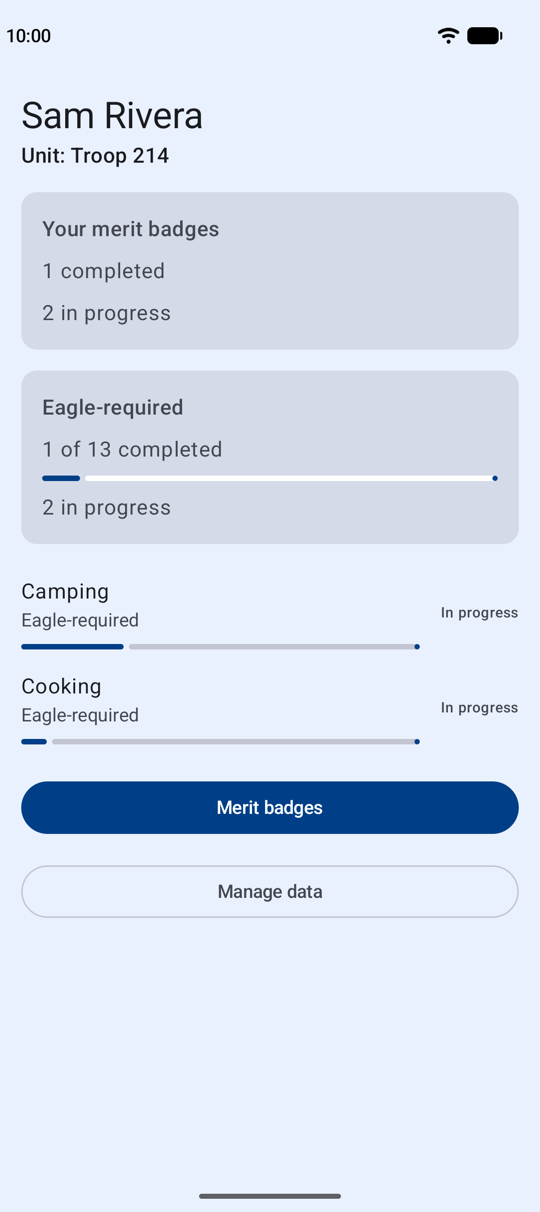
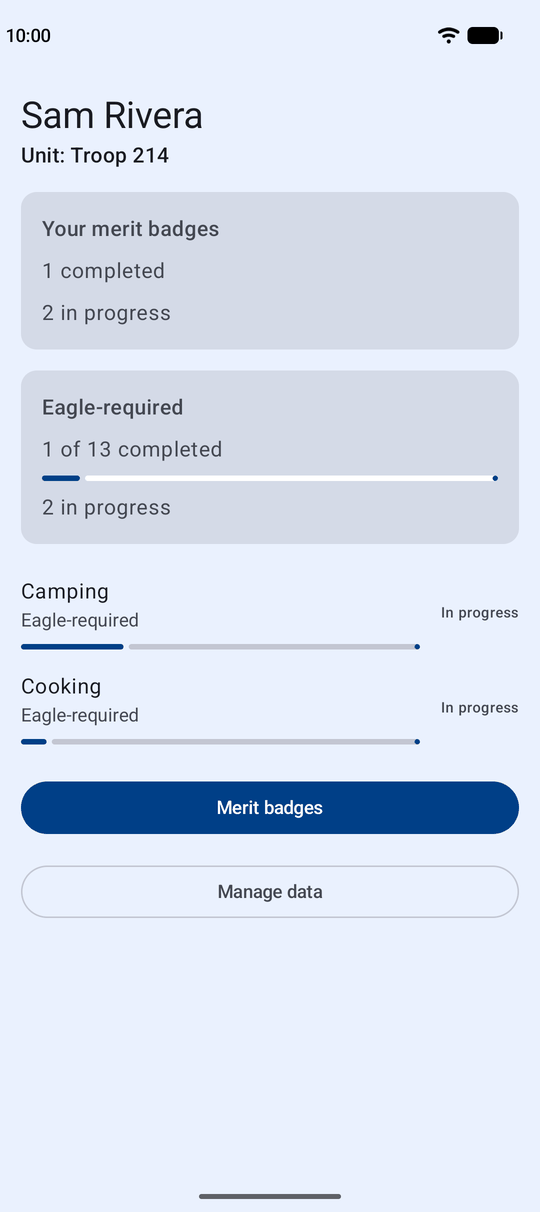
Address review: backup, setup, catalog and smaller screenshots
- The README now says Android's own backup copies progress to the
  scout's Google Drive unless they turn it off, that command-line builds
  need JAVA_HOME pointed at Android Studio's JDK (the linked setup is for
  macOS), and that an export covers the name and unit number as well.
- The docs table now describes everything in toolchain.md and
  catalog.md, including ranks.
- Screenshots are reduced to 256 colors: 135 KB in all, down from
  390 KB.
- docs/toolchain.md has a new "Updating the README screenshots" section
  with the data and capture steps, so they can be retaken the same way.

Changed region(s): [[0.0593, 0.4884, 0.2074, 0.519], [0.0593, 0.0916, 0.1481, 0.1526], [0.0889, 0.5495, 0.1185, 0.58]]

diff --git a/docs/toolchain.md b/docs/toolchain.md
@@ -320,6 +320,37 @@ again. `retrace` comes with the Android SDK Command-line Tools, which the
 Standard setup doesn't install: add them in Android Studio's **SDK Manager →
 SDK Tools → Android SDK Command-line Tools (latest)**.
 
+## Updating the README screenshots
+
+The README shows three screenshots from `docs/images/`: Home, Camping's badge
+page, and Camping requirement 9a's campout log. When a change makes them look
+out of date, retake all three the same way, so they still match each other.
+
+1. Install the debug app fresh on an emulator (they were taken on a Pixel 10),
+   set to English (US), light mode, and the default font and display size.
+2. Enter the same made-up data: the name Sam Rivera and unit Troop 214; First
+   Aid marked completed on an earlier date; Cooking 1a and 1b complete; and for
+   Camping, the counselor Jordan Lee, (214) 555-0142, jordan.lee@example.com,
+   requirements 1a, 1b, 1c, 2 and 3a complete, and three campouts on 9a.
+3. Clean up the status bar with System UI demo mode. Some notification icons
+   stay visible anyway, so also clear them from the notification shade.
+
+   ```sh
+   adb shell settings put global sysui_demo_allowed 1
+   adb shell am broadcast -a com.android.systemui.demo -e command enter
+   adb shell am broadcast -a com.android.systemui.demo -e command clock -e hhmm 1000
+   adb shell am broadcast -a com.android.systemui.demo -e command battery -e level 100 -e plugged false
+   adb shell am broadcast -a com.android.systemui.demo -e command network -e wifi show -e level 4 -e fully true
+   adb shell am broadcast -a com.android.systemui.demo -e command network -e mobile hide
+   ```
+
+4. Take each screenshot with `adb exec-out screencap -p > screen.png`, then
+   leave demo mode: `adb shell am broadcast -a com.android.systemui.demo -e command exit`.
+5. Scale each one to 540 pixels wide, twice the width the README shows it at,
+   so it stays sharp on high-density screens. Reduce it to 256 colors (for
+   example with [pngquant](https://pngquant.org/)), which keeps each file under
+   about 60 KB with no visible difference.
+
 ## Continuous integration
 
 GitHub Actions (`.github/workflows/ci.yml`) runs on every pull request and on

diff --git a/README.md b/README.md
@@ -14,11 +14,13 @@ With BlueCard, a scout can:
   exercise log.
 - Mark a badge completed on an earlier date, without entering each requirement.
 - Save or share a PDF report of everything recorded for a completed badge.
-- Export their progress to a file, and import it again on another phone.
+- Export their name, unit number and progress to a file, and import it later,
+  for example on a new phone.
 
-There's no account or server. Progress is stored on the phone, and the app
-itself doesn't connect to the internet: links to official pages open in the
-browser.
+There's no account or server, and the app itself doesn't connect to the
+internet: links to official pages open in the browser. Progress is stored on the
+phone. Android's own backup also copies it to the scout's Google Drive, unless
+they turn backup off in the phone's settings.
 
 <p>
   <img src="docs/images/home.png" width="250"
@@ -41,7 +43,8 @@ BlueCard runs on Android 8.0 (API 26) and newer.
 ## Building
 
 You need Android Studio and the Android SDK it installs. You don't need to
-install Gradle, Kotlin or a separate JDK. The steps are in
+install Gradle, Kotlin or a separate JDK, but command-line builds need
+`JAVA_HOME` pointed at Android Studio's bundled JDK. The steps for macOS are in
 [One-time machine setup](docs/toolchain.md#one-time-machine-setup-macos).
 
 Then, from the repository root:
@@ -61,8 +64,8 @@ The other commands are listed in
 |---|---|
 | [`PRD.md`](PRD.md) | What the app does, and the decisions about how it looks and behaves |
 | [`ARCHITECTURE.md`](ARCHITECTURE.md) | How the app is built, and the conventions new code follows |
-| [`docs/toolchain.md`](docs/toolchain.md) | Machine setup, build commands, and the testing rules the build checks |
-| [`docs/catalog.md`](docs/catalog.md) | How to add merit badges and requirements to the catalog |
+| [`docs/toolchain.md`](docs/toolchain.md) | Machine setup, build commands, the testing rules the build checks, CI, and the backup and release-build checks done by hand |
+| [`docs/catalog.md`](docs/catalog.md) | How to write the catalog's merit badges, ranks and requirements |
 
 ## Disclaimer
 
